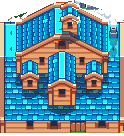
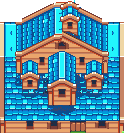
Pack roof tiles, no loose rod, clean path joins, tilled farm soil

diff --git a/client/src/world/village-map.ts b/client/src/world/village-map.ts
@@ -18,24 +18,24 @@ export const VILLAGE_ROWS = [
   "~~~~~~~~~~~~~~~~~~~~~~~~~~~~~~~~~~~~~~~~~~~~~~~~~~~~~~~~~~~~~~~~~~",
   "~~~~~~.......................................................~~~~~",
   "~~~~~~T.*T.\"T*..\".*..\".......T.......T......T.............T..~~~~~",
-  "~~~T.\".\"..\".\"..\".\"..\".\"...T.............T.........oooooo.....T...~",
+  "~~~~.\".\"..\".\"..\".\"..\".\"...T.............T.........oooooo.....T...~",
   "~~~~..\"....\"....\"....\"...........................oooooooo........~",
   "~~...\".\"..\".\"..\".\"..\".\"......T.......T...........oooooooo........~",
   "~~..T.\"....\"....\"....\"....T.............T........ooo###oo........~",
   "~~...\".\"..\".\"..\".\"..\".\"..................b...r...ooo###oo....T...~",
   "~~....\"....\"..\".\"..\".\"..\".....=======.............oo###o.........~",
   "~~.T.\".*..\".*..\".*..\".*..b....=======...............###..........~",
-  "~~..\".\"..\".\"..\".\"..\".\"..\".......=====================............~",
-  "~~...\".*..\".*..\".*..\".*.........===........................T..T..~",
+  "~~..\".\"..\".\"..\".\"..\".\"..\".......===..............................~",
+  "~~...\".*..\".*..\".*..\".*.........=======================....T..T..~",
   "~~.b...r...b............===================.............b........~",
   "~~............*...T*...=====================.....T...............~",
   "~~...........*.T..*..T.=====================..T.....T........T...~",
   "~~.....................=====================..............T......~",
   "~~...........*....*b...=====================...b.................~",
   "~~.....................=====================.................T...~",
-  "~~..........=========================================............~",
-  "~~..........=========================================............~",
-  "~~..........=========================================........T...~",
+  "~~...........========================================............~",
+  "~~...........========================================............~",
+  "~~...........========================================........T...~",
   "~~.T...................=====================.....................~",
   "~~....T......*....*....=====================..............T......~",
   "~~.......T.....T.....T.=====================..T.....T........T...~",
@@ -57,8 +57,8 @@ export const VILLAGE_ROWS = [
   "~~..............................===..............................~",
   "~~..............................===..............................~",
   "~~..............................===..............................~",
-  "~~..===========================================================..~",
-  "~~..===========================================================..~",
+  "~~....=========================================================..~",
+  "~~....=========================================================..~",
   "~~~~.............................................................~",
   "~~~~~~~~~~~~~~~~~~~~~~~~~~~~~~~~~~~~~~~~~~~~~~~~~~~~~~~~~~~~~~~~~~",
 ] as const;
@@ -123,7 +123,7 @@ const SHARED: Platform[] = [
   place("plaza", "plaza", "Village square", [0, 0], [-10, -7, 11, 7]),
   place("npc", "npc", "Elder's house", [0, -1], [-8, -18, 9, -8]),
   place("wild", "wild", "Wild meadow", [-1, -1], [-31, -18, -8, -7]),
-  place("pond", "pond", "Fishing pond", [1, -1], [9, -18, 32, -7], { pond: { x: 20, z: -13 }, dock: { x: 20, z: -10.8 }, rod: { x: 21, z: -9.8 } }),
+  place("pond", "pond", "Fishing pond", [1, -1], [9, -18, 32, -7], { pond: { x: 20, z: -13 }, dock: { x: 20, z: -10.8 } }), // no loose rod: one shows only in a fisher's hands
   place("picnic", "picnic", "Village green", [-1, 0], [-21, -7, -10, 7], { bench: { x: -19, z: -3 } }),
   place("playground", "playground", "Playground", [1, 0], [11, -7, 32, 7], { goal: { x: 22, z: -4 }, ball: { x: 22, z: 2.5 }, slide: { x: 17.5, z: 2 } }),
 ];

diff --git a/client/src/pixel/village-look.test.ts b/client/src/pixel/village-look.test.ts
@@ -1,0 +1,64 @@
+import { describe, expect, it } from "vitest";
+import { buildTerrain } from "./sunny-terrain";
+import { bedsAt } from "./overworld";
+import { T } from "../world/tilemap";
+import { GUEST_SLOT, PLOT_COUNT, villageTiles, villageWorld } from "../world/village-map";
+
+// Bugs 39-41 on the Sunnyside village: whole-map rules for paths, the pond and the farm field.
+describe("the village look", () => {
+  const m = villageTiles();
+  const t = buildTerrain(m);
+  const at = (i: number, j: number) => (i < 0 || j < 0 || i >= m.w || j >= m.h ? T.water : m.kind[j * m.w + i]!);
+  const dry = (i: number, j: number) => ![T.water, T.pool, T.bridge].includes(at(i, j) as never);
+  const road = (i: number, j: number) => i >= 0 && j >= 0 && i < m.w && j < m.h && t.road[j * m.w + i] !== 0;
+
+  it("has no land a tile wide, so no cliff or edge piece floats on its own", () => {
+    for (let j = 0; j < m.h; j++) for (let i = 0; i < m.w; i++) {
+      if (!dry(i, j)) continue;
+      expect((!dry(i, j - 1) && !dry(i, j + 1)) || (!dry(i - 1, j) && !dry(i + 1, j)), `land at ${i},${j}`).toBe(false);
+    }
+  });
+
+  it("draws every road at least three tiles across, with no one-tile tip at a path's end", () => {
+    for (let j = 0; j < m.h; j++) for (let i = 0; i < m.w; i++) {
+      if (!road(i, j)) continue;
+      const thinNS = !road(i, j - 1) && !road(i, j + 1);
+      const thinEW = !road(i - 1, j) && !road(i + 1, j);
+      expect(thinNS || thinEW, `road at ${i},${j}`).toBe(false);
+    }
+  });
+
+  it("keeps road tiles off the coast's edge tiles (a pier foot counts as land)", () => {
+    const firm = (i: number, j: number) => dry(i, j) || at(i, j) === T.bridge;
+    for (let j = 0; j < m.h; j++) for (let i = 0; i < m.w; i++) {
+      if (!road(i, j)) continue;
+      for (let dj = -1; dj <= 1; dj++) for (let di = -1; di <= 1; di++) expect(firm(i + di, j + dj), `road at ${i},${j}`).toBe(true);
+    }
+  });
+
+  it("leads the pond lane's road up to the pier's whole foot", () => {
+    for (let i = 0; i < m.w; i++) {
+      for (let j = 1; j < m.h; j++) if (at(i, j - 1) === T.bridge && dry(i, j) && at(i, j - 2) === T.bridge) expect(road(i, j), `under pier ${i},${j}`).toBe(true);
+    }
+  });
+
+  it("lays no loose fishing rod on the pier: a rod shows only in a fisher's hands", () => {
+    const pond = villageWorld().platforms.find((p) => p.kind === "pond")!;
+    expect(Object.keys(pond.spots ?? {})).not.toContain("rod");
+  });
+
+  it("keeps each plot's field and its edge inside the plot, clear of the road's edge tiles", () => {
+    const others = Array.from({ length: PLOT_COUNT - 1 }, (_, n) => ({ id: `p${n}`, name: "Pip", seed: n + 2, slot: n + 1 }));
+    const world = villageWorld({ me: { seed: 1, slot: 0 }, others });
+    const path = (x: number, z: number) => at(x - m.ox, z - m.oz) === T.path;
+    const guest = villageWorld({ me: { seed: 1, slot: GUEST_SLOT } });
+    for (const p of [...world.platforms, ...guest.platforms].filter((q) => q.ground)) {
+      const beds = bedsAt(p);
+      const [x0, z0, x1, z1] = p.rect!;
+      for (let z = beds[0]!.z - 1; z <= beds[5]!.z + 1; z++) for (let x = beds[0]!.x - 1; x <= beds[5]!.x + 1; x++) {
+        expect(x >= x0 && x < x1 && z >= z0 && z < z1, `${p.id} field at ${x},${z}`).toBe(true);
+        for (let dz = -1; dz <= 1; dz++) for (let dx = -1; dx <= 1; dx++) expect(path(x + dx, z + dz), `${p.id} field by a path at ${x},${z}`).toBe(false);
+      }
+    }
+  });
+});

diff --git a/client/src/pixel/pixel-view.ts b/client/src/pixel/pixel-view.ts
@@ -18,16 +18,12 @@ import { bedsAt, CHIMNEY, CROP_ART, CROP_STAGE, HOME_ART, OVERWORLD_MON, type Ov
 import { characterShadow, drawCropArt, drawLand, drawRail, drawSea, drawTree, footRuns, stampSize, stand, standRun, strip } from "./sunny";
 import { tile } from "./sunny-terrain";
 
-const SOIL = tile(7, 1); // the pack's earth, one whole tile, so beds side by side read as one field
-
-// Dug earth: the pack's tile, darkened so a bed never reads as road, with two furrows.
+// A bed is the pack's tilled mound on the field's dirt, and its crop grows out of the mound's middle, as in the
+// pack's demo farm (bug 41). The field itself is terrain (`m.soil`).
+const MOUND_FOOT = 14; // the mound's bottom, from the tile's top
+const CROP_FOOT = 10; // the crop's foot: the mound's hollow
 function drawSoil(g: CanvasRenderingContext2D, x: number, y: number): void {
-  drawRail(g, SOIL, x, y);
-  g.fillStyle = "rgba(96,52,32,0.55)";
-  g.fillRect(x, y, TILE, TILE);
-  g.fillStyle = "rgba(60,32,24,0.5)";
-  g.fillRect(x, y + 5, TILE, 1);
-  g.fillRect(x, y + 11, TILE, 1);
+  stand(g, "soil", x + 8, y + MOUND_FOOT);
 }
 import { drawFrame, drawText, drawTinyText, GLYPH, wrap } from "./text";
 
@@ -103,14 +99,14 @@ export class PixelView implements View {
         const [sx, sy] = toScreen(b.x, b.z);
         drawSoil(g, sx, sy);
         const [crop, stage] = farm?.[i] ?? ["", 0];
-        if (crop) drawCropArt(g, CROP_ART[crop] ?? "carrot", CROP_STAGE[Math.min(3, stage)]!, sx + 8, sy + 13);
+        if (crop) drawCropArt(g, CROP_ART[crop] ?? "carrot", CROP_STAGE[Math.min(3, stage)]!, sx + 8, sy + CROP_FOOT);
       });
     }
     o.beds.forEach((b, i) => {
       const [sx, sy] = toScreen(b.x, b.z);
       const p = o.farm?.plots[i];
       drawSoil(g, sx, sy);
-      if (p?.crop) drawCropArt(g, CROP_ART[p.crop] ?? "carrot", CROP_STAGE[Math.min(3, p.stage)]!, sx + 8, sy + 13);
+      if (p?.crop) drawCropArt(g, CROP_ART[p.crop] ?? "carrot", CROP_STAGE[Math.min(3, p.stage)]!, sx + 8, sy + CROP_FOOT);
       if (p && p.wetUntil) {
         g.fillStyle = PAL.teal; // wet soil: teal corner marker (STYLE.md farms)
         g.fillRect(sx + 3, sy + 11, 2, 2);

diff --git a/client/src/pixel/overworld.ts b/client/src/pixel/overworld.ts
@@ -507,10 +507,12 @@ export class Overworld {
     // Feature clearings take priority over trees, like the pack's fields and mill yards.
     // Farm ground is the pack's light dirt: real beds with a tile around them, and the decorative fields.
     const soil = (m.soil = new Uint8Array(m.w * m.h));
-    if (!this.world.things) for (const p of this.world.platforms) if (p.ground) {
-      const { x, z } = bedsAt(p)[0]!;
-      // One plain block of dirt: slots side by side, a walkable row between, nothing else on it.
-      for (let dz = -1; dz <= 4; dz++) for (let dx = -1; dx <= 3; dx++) {
+    for (const p of this.world.platforms) if (p.ground) {
+      const beds = bedsAt(p);
+      const { x, z } = beds[0]!;
+      const last = beds[beds.length - 1]!;
+      // One plain block of dirt with a tile of edge all round, nothing else on it (bug 41).
+      for (let dz = -1; dz <= last.z - z + 1; dz++) for (let dx = -1; dx <= last.x - x + 1; dx++) {
         const k = (z + dz - m.oz) * m.w + x + dx - m.ox;
         if (m.kind[k] === T.flowers || m.kind[k] === T.tall) m.kind[k] = T.grass;
         if (m.kind[k] === T.grass || m.kind[k] === T.path) soil[k] = 1;
@@ -1145,7 +1147,11 @@ export class Overworld {
   }
 }
 
-export const bedsAt = (home: Vec): Vec[] => Array.from({ length: PLOTS }, (_, i) => ({ x: Math.floor(home.x) + 3 + (i % 3), z: Math.floor(home.z) - 2 + Math.floor(i / 3) * 2 }));
+// A village plot (it has a rect) keeps its field and the field's edge inside the plot, clear of the road's edge
+// tiles: two rows of three side by side, as on the pack's demo farm (bug 41). The set-aside mosaic grounds keep theirs.
+export const bedsAt = (home: Vec & { rect?: unknown }): Vec[] => Array.from({ length: PLOTS }, (_, i) => home.rect
+  ? { x: Math.floor(home.x) + 1 + (i % 3), z: Math.floor(home.z) - 2 + Math.floor(i / 3) }
+  : { x: Math.floor(home.x) + 3 + (i % 3), z: Math.floor(home.z) - 2 + Math.floor(i / 3) * 2 });
 
 const GATHER_HINT: Record<string, string> = { fish: "E: FISH", chop: "E: CHOP", herbs: "E: PICK HERBS" };
 

diff --git a/client/src/pixel/sunny-terrain.ts b/client/src/pixel/sunny-terrain.ts
@@ -66,9 +66,12 @@ export function buildTerrain(m: TileMap): Terrain {
   const dry = (i: number, j: number) => at(i, j) !== T.water && at(i, j) !== T.bridge && at(i, j) !== T.pool;
   const isSoil = (i: number, j: number) => m.soil?.[j * m.w + i] === 1;
   const onPath = (i: number, j: number) => at(i, j) === T.path && !isSoil(i, j);
-  // A road's edge tiles are mostly grass, so the shape is one tile wider than the walkable path: the dirt then shows
-  // at the path's real width, and a two-tile street stays a street.
-  const isRoad = (i: number, j: number) => onPath(i, j) || (dry(i, j) && (onPath(i + 1, j) || onPath(i - 1, j) || onPath(i, j + 1) || onPath(i, j - 1)));
+  // A road's edge tiles are mostly grass, so the shape is one tile wider than the walkable path, diagonals too: the
+  // dirt then shows at the path's real width, a two-tile street stays a street, and a path's end is square, not a
+  // one-tile tip with no edge on one side (bug 40). Roads stay off the coast's own edge tiles; a pier foot is land here.
+  const firm = (i: number, j: number) => dry(i, j) || at(i, j) === T.bridge;
+  const nearPath = (i: number, j: number) => [-1, 0, 1].some((dj) => [-1, 0, 1].some((di) => onPath(i + di, j + dj)));
+  const isRoad = (i: number, j: number) => dry(i, j) && !isSoil(i, j) && edgeOf(firm, i, j) === null && nearPath(i, j);
   const high = (i: number, j: number) => m.high?.[j * m.w + i] === 1;
   const isPool = (i: number, j: number) => at(i, j) === T.pool;
   const free = (i: number, j: number) => i >= 0 && j >= 0 && i < m.w && j < m.h && !dry(i, j);

diff --git a/scripts/art-home-wing.py b/scripts/art-home-wing.py
@@ -4,6 +4,64 @@ from PIL import Image
 
 ART = "client/public/art/sunny/"
 LEFT = 97  # the wing's west wall, in home-roof.png and home-open.png
+AXIS = 123  # the side terraces mirror about x = 61.5: x and AXIS - x match
+EAST = 102  # the east terrace, chimney and smoke trail start here; it takes the west terrace, mirrored
+UPPER = 58  # the terraces end here; below is the wide lower roof
+
+
+def eave_top(x):
+    # The highest roof pixel of column x: the gable's two eaves rise 1 px per 2 columns to the ridge, the terraces
+    # start at row 22. Anything above is the demo's world behind the house.
+    if x < 22 or x > 101: return 22
+    if x <= 53: return 18 - (x - 22) // 2
+    if x >= 79: return 7 + (x - 79) // 2
+    return 0
+SHINGLE = {(11, 78, 143), (0, 152, 219), (34, 246, 253), (22, 110, 200), (165, 239, 247), (165, 255, 255), (169, 247, 245)}
+SHADE = {(45, 132, 127), (61, 159, 164), (41, 181, 152), (75, 142, 160), (104, 134, 133), (112, 164, 177), (33, 90, 67), (30, 86, 46),
+         (107, 75, 80), (78, 52, 68), (90, 72, 66), (122, 96, 80), (119, 108, 109), (100, 53, 58), (90, 59, 66), (107, 87, 98),
+         (84, 67, 81), (140, 156, 181), (82, 107, 140), (109, 131, 163), (134, 143, 139)}  # shingles and planks in shadow
+DARK = (29, 47, 71)  # the roof's outline colour, also what the shadow made of the darkest shingle
+EAVE = {(234, 165, 108), (239, 214, 165), (198, 131, 100), (189, 108, 74), (198, 66, 33), (118, 59, 54)}
+
+
+def clean_roof(wing):
+    """Bug 38: the cut caught the demo's chimney smoke, rocks and a tree branch above the roof, and the dormers' cast
+    shadows read as dark blocks on the shingles. Keep only the pack's roof: the clean west half of the upper gable,
+    mirrored east, nothing above the eave line, and shingles under the shadows taken from the 16 px tile repeat."""
+    px = wing.load()
+    w, h = wing.size
+    for y in range(UPPER):
+        for x in range(EAST, w):
+            px[x, y] = px[AXIS - x, y]
+    for y in range(48, 66):  # the smoke trail crossed the east end of the middle gable too
+        for x in range(98, EAST):
+            px[x, y] = px[AXIS - x, y]
+    for x in range(w):
+        for y in range(24):
+            r, g, b, _ = px[x, y]
+            smoke = y < 6 and x > 72 and b > r > 120  # the last puff by the ridge
+            if y < eave_top(x) or (g > r and g > b) or smoke:
+                px[x, y] = (0, 0, 0, 0)
+    shade = {(x, y) for y in range(h) for x in range(w) if px[x, y][3] and px[x, y][:3] in SHADE}
+    near = lambda x, y: any((x + dx, y + dy) in shade for dx in range(-2, 3) for dy in range(-2, 3))
+    shade |= {(x, y) for y in range(h) for x in range(w) if px[x, y][:3] == DARK and near(x, y)}
+    # A blue shade becomes a shingle, a brown one a plank: copy the same spot of the next tile that is clear of shadow.
+    steps = [(dx, dy) for dy in (0, 16, -16, 32) for dx in (16, -16, 32, -32, 48, -48, 0) if dx or dy]
+    for x, y in sorted(shade, key=lambda p: (p[1], p[0])):
+        if 50 <= x < 80 and y >= 29 + abs(x - 61.5) / 2:
+            # On the middle gable's eaves, under the top dormer: the eave bands run 1 px down per 2 px out.
+            out = -2 if x < 62 else 2
+            k = next((k for k in range(1, 20) if (x + out * k, y + k) not in shade), None)
+            if k is not None:
+                px[x, y] = px[x + out * k, y + k]
+                continue
+        r, _, b, _ = px[x, y]
+        fits = (lambda c: c in SHINGLE or c == DARK) if b >= r else (lambda c: c[0] > c[2])
+        for dx, dy in steps:
+            sx, sy = x + dx, y + dy
+            if 0 <= sx < w and 0 <= sy < h and (sx, sy) not in shade and px[sx, sy][3] and fits(px[sx, sy][:3]):
+                px[x, y] = px[sx, sy]
+                break
 
 for src, out in (("home-roof", "home-wing-roof"), ("home-open", "home-wing-open")):
     im = Image.open(f"{ART}{src}.png").convert("RGBA")
@@ -16,12 +74,6 @@ for src, out in (("home-roof", "home-wing-roof"), ("home-open", "home-wing-open"
             for x in range(0, 7):
                 px[x, y] = px[x, top - 1]
     if src == "home-roof":
-        # The demo's grass and rocks behind the roof are not part of this house.
-        px = wing.load()
-        for y in range(24):
-            for x in [*range(27), *range(72, wing.width)]:
-                r, g, b, a = px[x, y]
-                if a and not (b > r or (r > 150 and r > g > b and b < 120)):
-                    px[x, y] = (0, 0, 0, 0)
+        clean_roof(wing)
     wing.save(f"{ART}{out}.png")
     print(out, wing.size)

diff --git a/scripts/art-sunny.py b/scripts/art-sunny.py
@@ -23,10 +23,12 @@ LAYERS = {l['name']: decode(l['tiles']) for l in room['layers'] if 'tiles' in l 
 sheet = Image.open(A + 'Tileset/spr_tileset_sunnysideworld_16px.png').convert('RGBA')
 sheet.save(OUT + 'tiles.png', optimize=True)
 
+# Bug 38: the room's roofs mix in shingle tiles with a brown patch; on a lone house they read as odd blocks.
+PLAIN = {34 * 64 + 20: 36 * 64 + 16, 10 * 64 + 20: 12 * 64 + 16}  # red, blue patched shingle -> plain shingle
 def tile(v):
     v &= 0xffffffff
     if v >> 31 or not v & 0x7ffff: return None
-    i = v & 0x7ffff
+    i = PLAIN.get(v & 0x7ffff, v & 0x7ffff)
     t = sheet.crop(((i % 64) * 16, (i // 64) * 16, (i % 64) * 16 + 16, (i // 64) * 16 + 16))
     if v >> 28 & 1: t = t.transpose(Image.FLIP_LEFT_RIGHT)
     if v >> 29 & 1: t = t.transpose(Image.FLIP_TOP_BOTTOM)

diff --git a/docs/visual/tile-rules.md b/docs/visual/tile-rules.md
@@ -28,7 +28,7 @@ Decide each tile from the land shape alone, with 4 neighbours and then diagonals
 
 - Fill: nothing in the game scales; the pack's 3.1 is an 8 px checker, so one 16 px thing covered four squares. The user wants one square per tree or farm spot, so the fill is the same two greens, flat, one per tile.
 - The light road family is the grass table moved down 4 rows (3.k becomes 7.k, 4.k becomes 8.k). Not used yet.
-- Roads are 3 tiles wide and stay on land.
+- Roads are 3 tiles wide and stay on land. The road shape is the path grown by one tile all round, diagonals too, so a path end is square (bug 40). It never covers a coast edge tile; a pier foot counts as land, so a lane meets the pier. No land strip 1 tile wide anywhere (`village-look.test.ts`).
 - Island outlines are straight edges with stepped corners, never slants or circles: coast, cliff and foam tiles only join on those. Grounds are stepped rectangles (world/ground.ts), other places squares with corner notches (`inBlock` in world/layout.ts). Roads run along one axis, then the other.
 - Trees stay inland (`SHORE` in overworld.ts: 2 tiles from water, 3 to the south, so a canopy never hangs over a cliff) and grow in tight clumps, about 2 tiles apart. Try 8-9 clumps per player ground and 3-4 elsewhere (previously 5-6 / 2-3); larger compact patches use available clear grass before starting another clump. Clearance takes priority over the density target. Trees stand on tile centres (bug 14): only the clump's outline is uneven. Four seed residues in five draw the round `tree_01` strip; one draws a pine. The pack's `tree_02` strip is also a conifer, not a second round tree.
 - Straight roads of 6+ tiles carry a fence on both sides, either direction: segments 3-8 tiles, gaps 2+, kept 2 tiles clear of junctions, gates and bridges (grounds-decor.ts). East-west uses `fence-a`, north-south the rail tiles 1.40 / 3.40 / 4.40 (`fence-v`).
@@ -79,10 +79,11 @@ The ends lie one tile up on the land.
 - The sea repeat runs on past the map edge: no sky, no edge line.
 
 ## Buildings, props, crops, furniture
+- Roofs: the room's patched shingles (red 34.20, blue 10.20) export as plain 36.16 / 12.16 (`PLAIN` in art-sunny.py). The home wing's roof is cleaned in art-home-wing.py: nothing above the eaves, east terrace mirrored from the west, dormer shadows refilled from the 16 px shingle repeat (bug 38).
 - Stamps are cut from room rects in `STAMPS` in art-sunny.py and keep only the largest connected blob, because rects catch neighbours. Add a name to `LOOSE` when the stamp has several pieces on purpose.
 - Tile rects are easy to misread on a labelled sheet: column = first + (x - 24) / cell width. Check the output on a review sheet.
 - Anchor: bottom centre at the foot (`stand`). Draw with people, sorted by foot z. Solid area comes from `footprint`: half width, depth about half the height plus 0.6.
-- Crops: pack art 0 is the seed, 1-4 grow, 5 is the harvested item. Farm stages 0-3 map to 1, 2, 3, 4. Farm ground is one plain block of the light dirt family (`m.soil`), fill 7.1, with no flowers or decor: slots side by side, a walkable row between. Wheat comes from the GameMaker sprites. Tomato uses radish art.
+- Crops: pack art 0 is the seed, 1-4 grow, 5 is the harvested item. Farm stages 0-3 map to 1, 2, 3, 4. Farm ground is one plain block of the light dirt family (`m.soil`), fill 7.1, with no flowers or decor: with an edge tile all round. On a village plot the beds are 3 x 2, side by side, right of the door, and the field with its edge stays inside the plot and off the road's edge (`bedsAt`). Each bed is the pack's tilled mound (`soil` stamp) with its crop standing in the mound's hollow, as on the demo farm (bug 41). Wheat comes from the GameMaker sprites. Tomato uses radish art.
 - Furniture: rows 33-37 of the tileset, listed in `FURNITURE`. Big rug is at 35.40, table at 35.50.
 
 ### Ground dressing (2026-11-01)

diff --git a/docs/BUGS.md b/docs/BUGS.md
@@ -7,14 +7,10 @@ Every bug the user reports goes here, with its image in `.scratch/bugs/`. Remove
 
 36. **The Brain panel names the model to a stranger.** User's call; the wording is unchanged.
 
-38. **House roof tiles are wrong.** Blue roof is a patchwork of mismatched pieces, odd blocks and stray bits on top. Shot: `.scratch/bugs/38-house-roof.png` (user, 2026-11-03).
-39. **Fishing rod lies on the pier.** A loose rod sprite sits on the dock planks. Shot: `.scratch/bugs/39-40-pond-rod-path.png`.
-40. **Path tile placed oddly.** A dirt path piece pokes into the grass beside the pond (bottom left of the same shot).
-41. **Farm ground is not correct.** Plots read as dark strips with crops pasted on; does not match the pack's tilled soil. Shot: `.scratch/bugs/41-farm-ground.png`.
-
 ### Fixed, waiting for review
 1-9, 13-23: ground tiles, pond edge, windmill, house entry, placement, farm art, beaches, fishing rules, coast corners, grid, cut-off tiles, road fences, bridge posts, world edge, road bulge, layering, pond pier, clouds, layer rule. Detail: git history of this file.
 35: playground slide redrawn straight-on (`proof/visual/slide-live.jpg`).
+38-41 (Sunnyside, live): 38 home roof cleaned of the demo's smoke, rocks, branch, chimney trail and dormer shadows; villager roofs lose the patched shingle tiles (`proof/visual/roof-38-live.png`, `roof-38-art.png`). 39 the pond carried a `rod` prop spot: removed, the rod shows only in Mo's hands (`pond-39-40-live.png`). 40 roads are the path grown by a full tile ring, kept off coast edges; the pond lane moved a row to meet the pier; a 1-tile coast spur and a stepped street end fixed (same shot, `village-look.test.ts`). 41 the village plots now get the pack's field with edges and a tilled mound per bed, beds moved inside the plot (`farm-41-live.png`).
 30, 31: soccer goal redrawn straight-on, all 654 gen files audited, only the goal failed (`proof/visual/gen-art-audit.md`, `proof/visual/goal-live.png`).
 
 ## Hatch

diff --git a/docs/testing/checks/visual.md b/docs/testing/checks/visual.md
@@ -16,4 +16,9 @@ Run on `/`, Sunnyside (decided). `/lab/visual` is still the mosaic. Live proof: 
 - [x] Mosaic only, Sunnyside has no Grid chip: the Grid button turns the faint cell lines on and off, and it is remembered. Outlines stay. [proof](../proof/visual/outlines-grid-off.jpg)
 - [x] Mosaic only: every thing has an outline (path, tree, person, pet, clock, map), and from the outlines you can tell which is in front. [proof](../proof/visual/outlines-lab.jpg)
 - [x] Walking scrolls the view smoothly, with no cell-sized jumps, and your character glides. Other movers still step by cell. [proof](../proof/game/walk-steady.md) [first hold](../proof/game/sunny-live.md)
+- [x] Every roof is whole pack roof: no smoke, rocks or branches cut in, no patched shingle blocks, no grey shadow blocks (bug 38). [live](../proof/visual/roof-38-live.png) [all houses](../proof/visual/roof-38-art.png)
+- [x] A fishing rod shows only in a fisher's hands, never lying on the pier (bug 39). [live](../proof/visual/pond-39-40-live.png)
+- [x] Paths join cleanly: every road is 3+ tiles across with square ends, stays off the coast's edge tiles, and the pond lane meets the pier's whole foot (bug 40). [live](../proof/visual/pond-39-40-live.png) Unit test: `village-look.test.ts`.
+- [x] No land a tile wide, so no loose cliff piece on the coast. Unit test: `village-look.test.ts`.
+- [x] A farm is the pack's field: light dirt with an edge all round, one tilled mound per bed, each crop growing out of its mound at every stage; the field stays inside its plot and off the road's edge (bug 41). [live](../proof/visual/farm-41-live.png)
 - [x] Every generated art file is top-down, front side only, never at an angle. [audit](../proof/visual/gen-art-audit.md)
